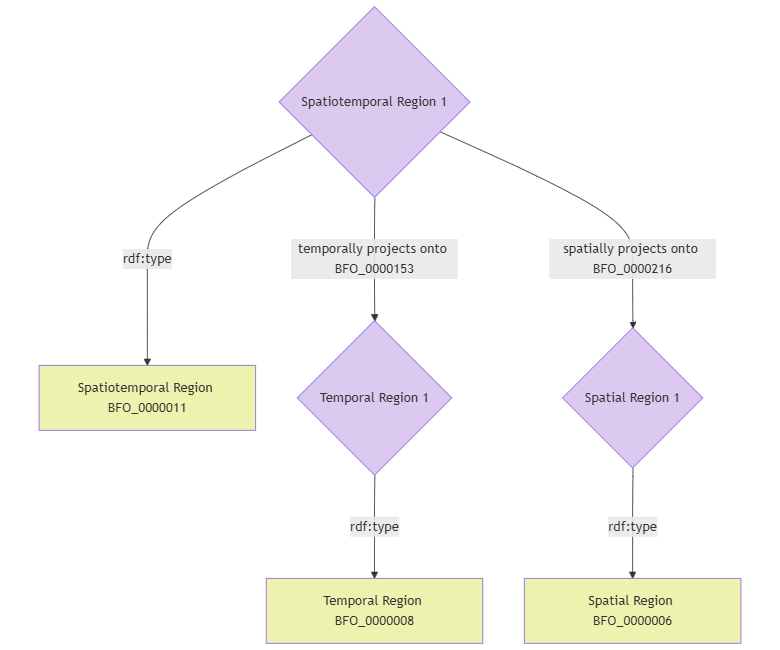
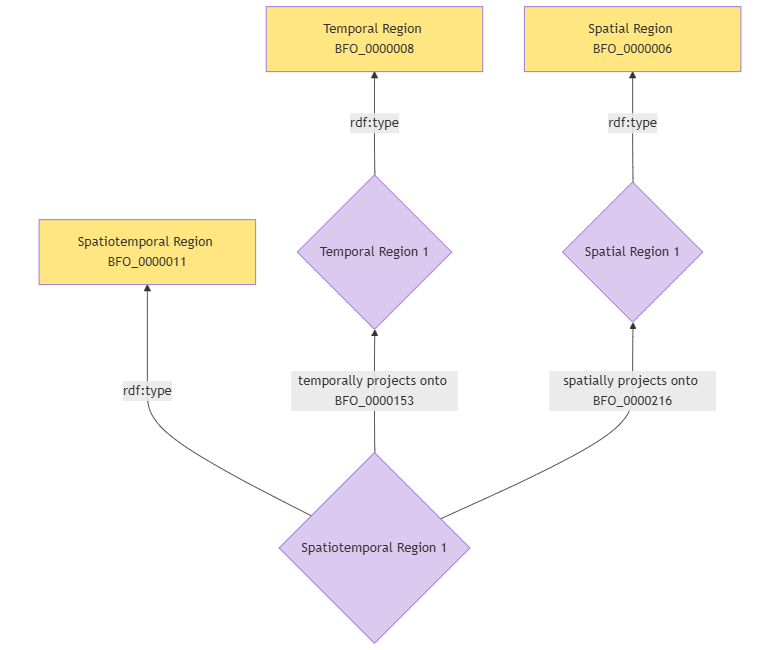
Made requested changes re: CCO design pattern from p. 20

diff --git a/design-patterns/spacetime/CCO DP, p. 20.md b/design-patterns/spacetime/CCO DP, p. 20.md
@@ -1,11 +1,11 @@
-graph TD
+graph BT
     A{Spatiotemporal Region 1} --->|rdf:type| B[Spatiotemporal Region BFO_0000011]
     A --->|temporally projects onto BFO_0000153| C{Temporal Region 1}
     A --->|spatially projects onto BFO_0000216| D{Spatial Region 1}
     C --->|rdf:type| E[Temporal Region BFO_0000008]
     D --->|rdf:type| F[Spatial Region BFO_0000006]
 
-    classDef yellow fill:#EDF2AE
+    classDef yellow fill:#ffe680
     classDef purple fill:#dbc9ef
     class B,E,F yellow
     class A,C,D purple
